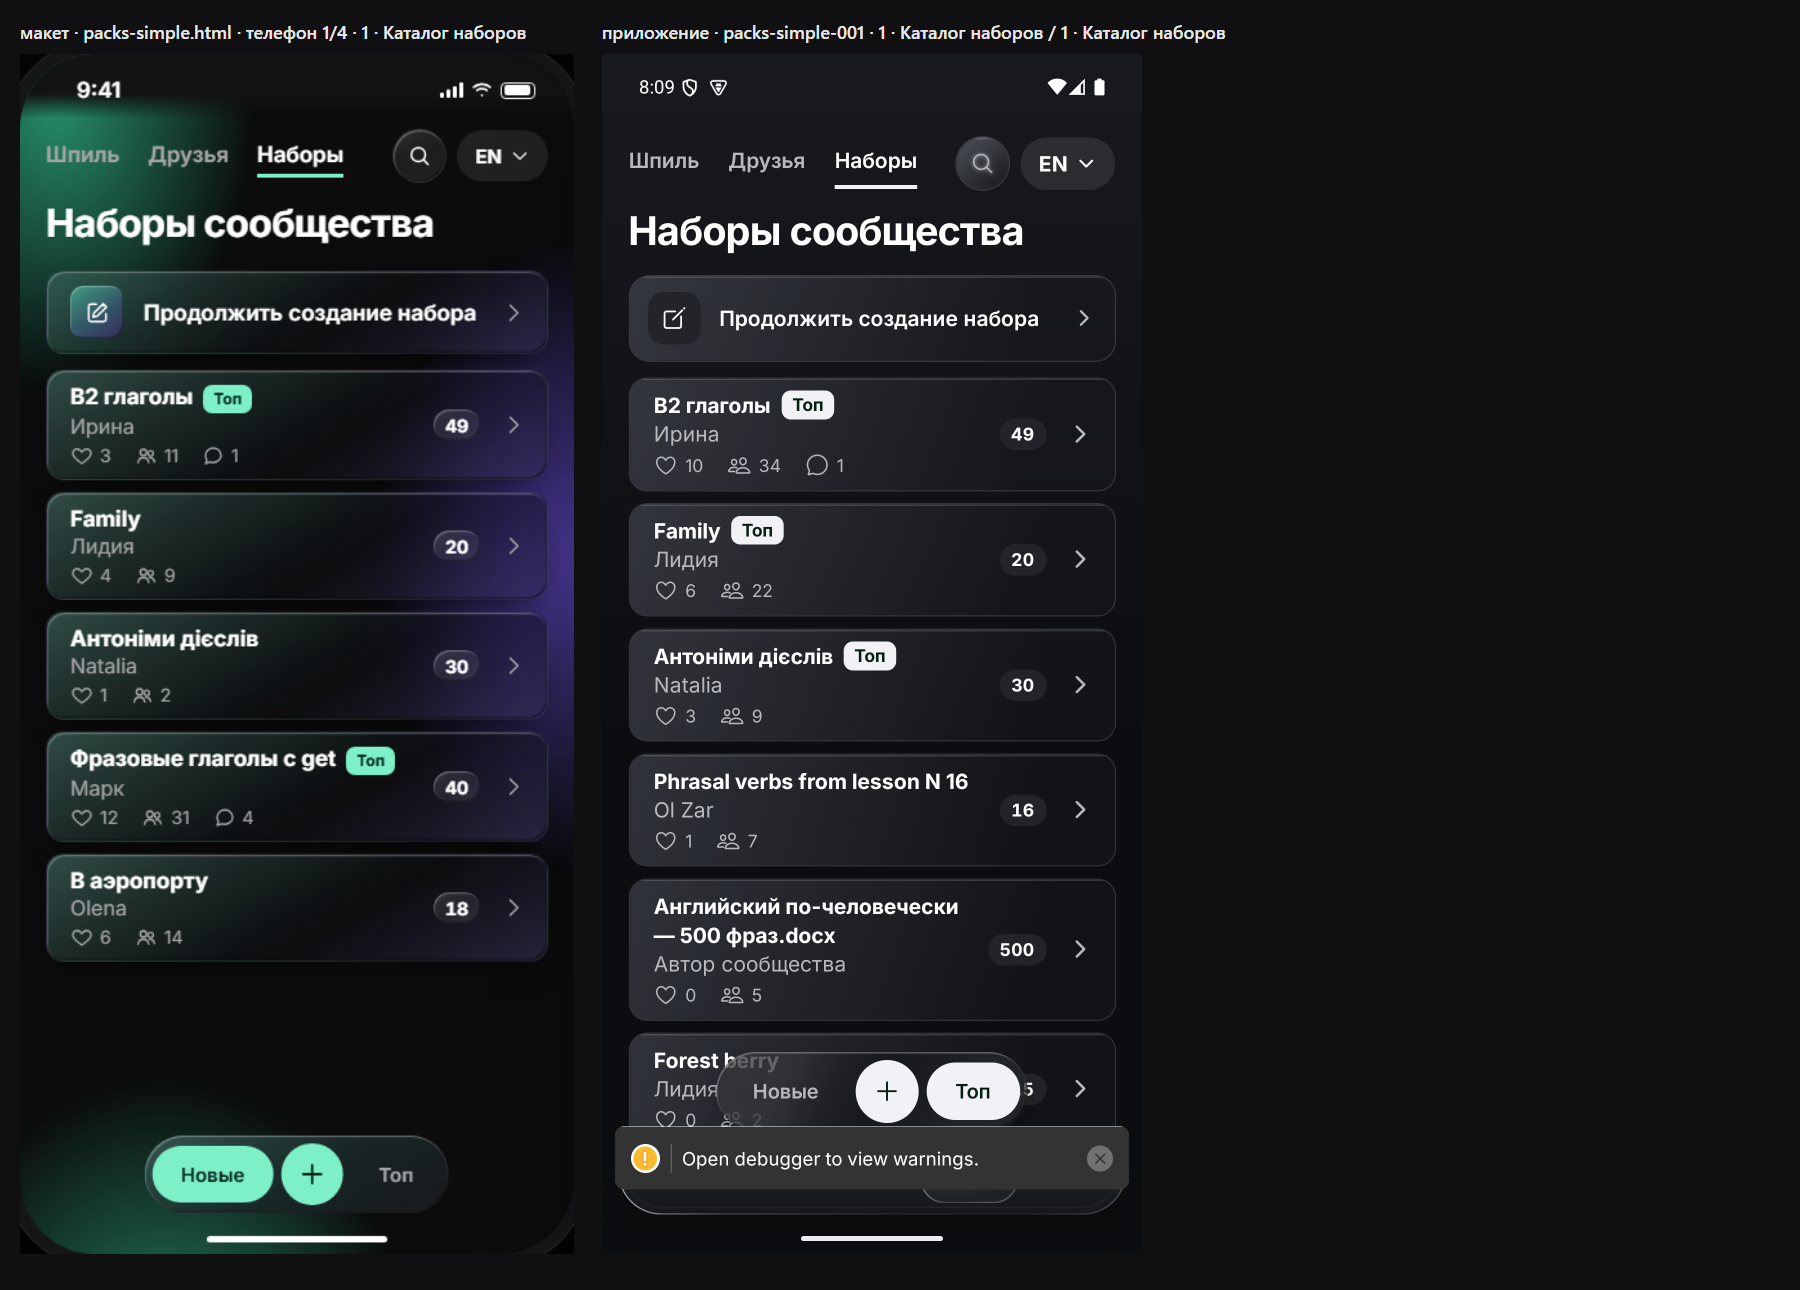
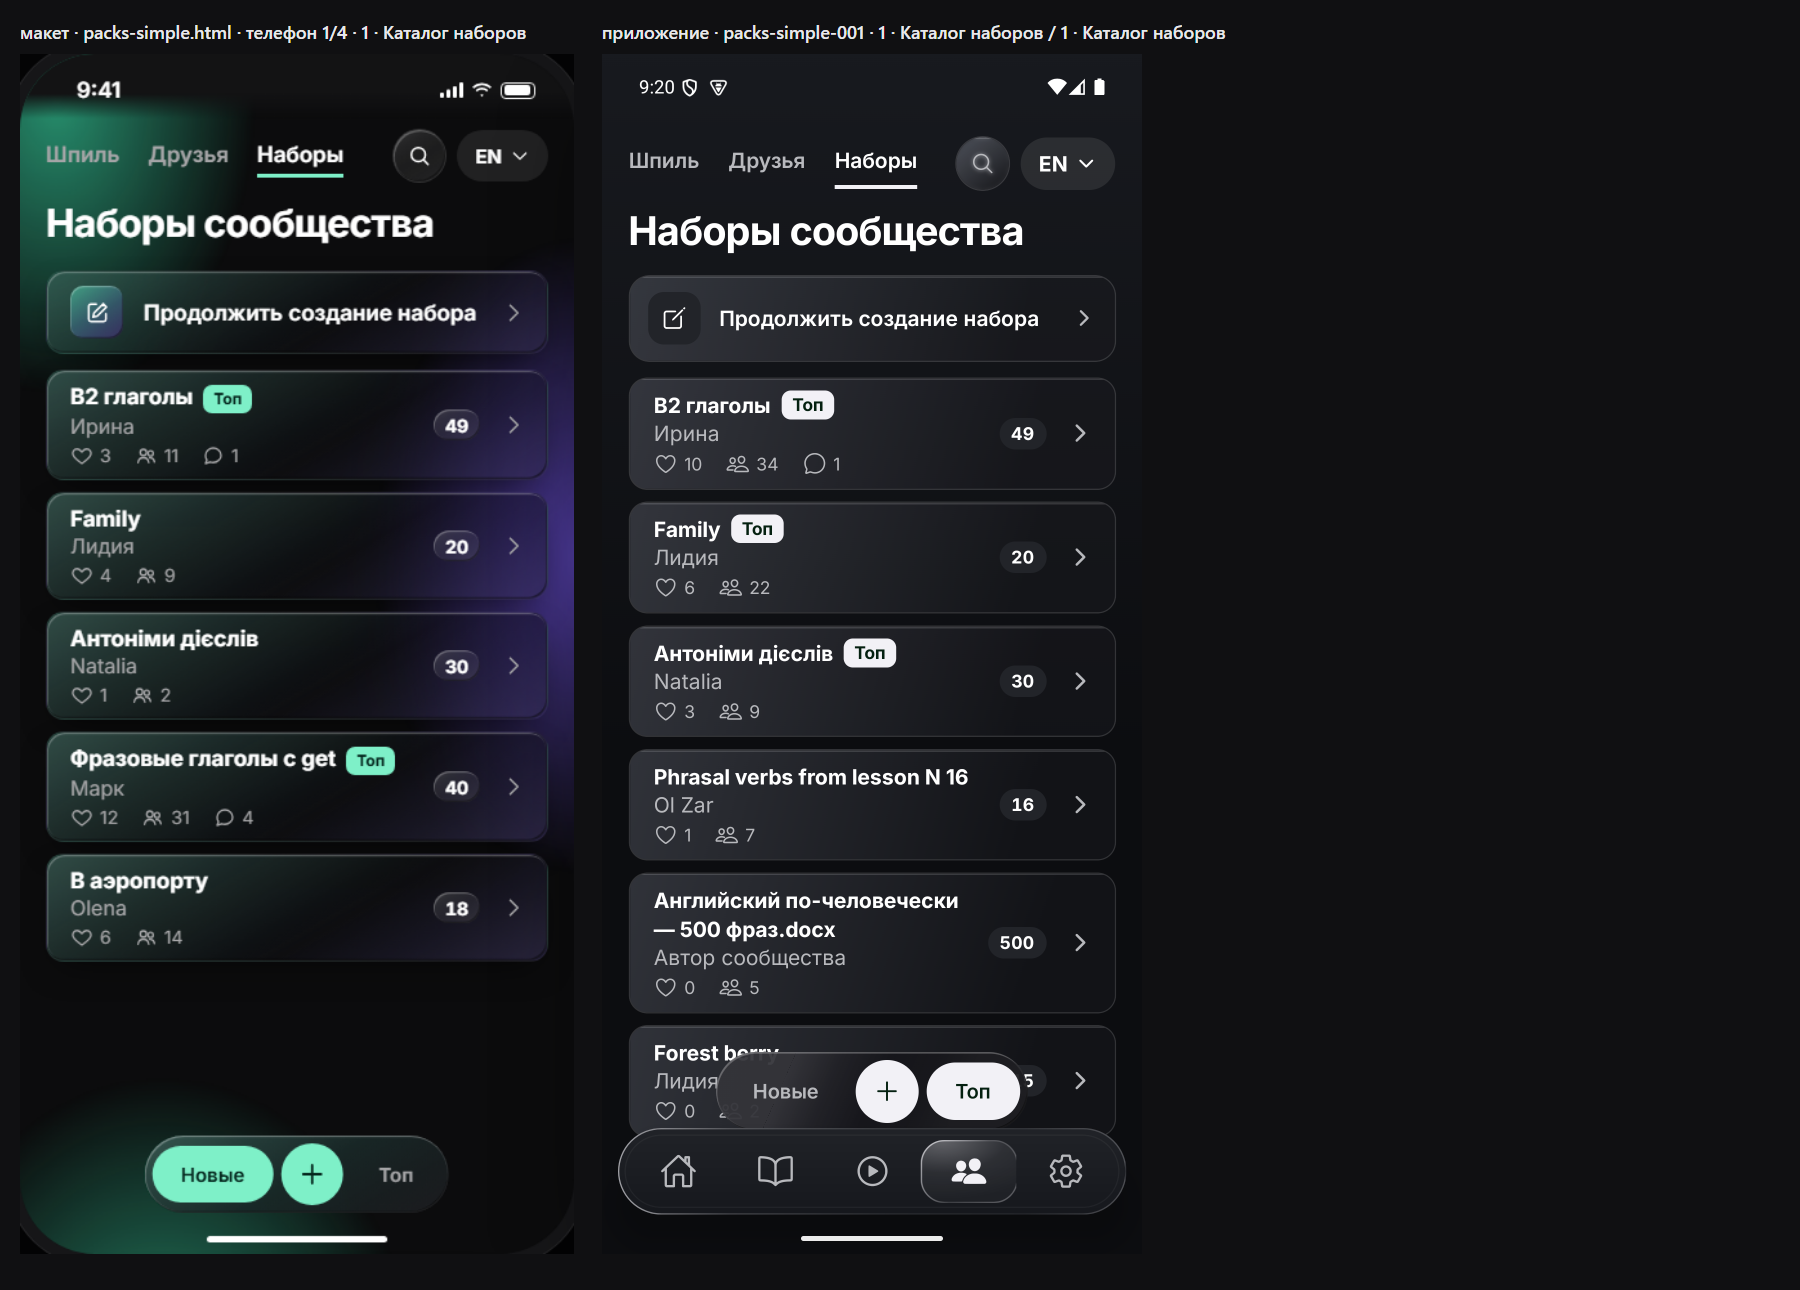
parity(packs-simple-001): .bar3 — блик и кромка kit.css без тени; строка автора 19, зазор значок–число 5; diffs learn-004/007/008/011–014 из SVERKA_LOG

diff --git a/app/flashcards_packs.tsx b/app/flashcards_packs.tsx
@@ -37,6 +37,7 @@ import { SafeAreaView } from 'react-native-safe-area-context';
 import { useStableSafeAreaInsets } from './stable_safe_area_metrics';
 import ScreenGradient from '../components/ScreenGradient';
 import { LinearGradient } from '../components/SafeLinearGradient';
+import { KitGlassLayer } from '../components/v2/KitLiquidGlass';
 import { useLang } from '../components/LangContext';
 import { triLang } from '../constants/i18n';
 import { liquidGlassTokens } from '../constants/liquidGlassThemePalette';
@@ -626,8 +627,8 @@ export default function FlashcardsPacksScreen({ presentation = 'push' }: Flashca
         <View style={[styles.bottomTabsDock, { paddingBottom: embedded ? tabContentBottomPad - 8 : Math.max(insets.bottom, 12) }]}>
           {/* зачем (владелец 04.10, packs-simple.html `.bar3`, «как на макете»): компактная плавающая пилюля по центру —
               «Новые» и «Топ» текстом без значков (44, радиус 22, 15/600), активная залита цветом темы;
-              «+» по центру — круг 48 цвета темы. В `.bar3` НЕТ стекла kit.css и тени: только градиент .94
-              и кольцо inset 1px белое .08 (styles.bottomTabs). */}
+              «+» по центру — круг 48 цвета темы. kit.css даёт `.bar3` блик и кромку (::after), а тень --lg-drop
+              страница перебивает своим box-shadow: кольцо inset 1px белое .08 (styles.bottomTabs). */}
           <View style={styles.bottomTabs}>
             {/* зачем (`.bar3` background): почти непрозрачная пилюля (.94) — список под ней не просвечивает. */}
             <LinearGradient
@@ -637,6 +638,7 @@ export default function FlashcardsPacksScreen({ presentation = 'push' }: Flashca
               end={{ x: 0.75, y: 0.933 }}
               style={StyleSheet.absoluteFill}
             />
+            <KitGlassLayer radius={30} />
             <TouchableOpacity
               testID="flashcards-packs-sort-new"
               accessibilityRole="button"

diff --git a/app/community_packs/CommunityPackSocialBar.tsx b/app/community_packs/CommunityPackSocialBar.tsx
@@ -510,18 +510,18 @@ export default function CommunityPackSocialBar({
   }
 
   if (isList) {
-    // зачем (packs-simple.html `.meta`): иконки 18, промежуток 18 между парами и 6 внутри; кегль 13 по D145 (макет 14).
+    // зачем (packs-simple.html `.meta`): иконки 18, промежуток 18 между парами и 5 внутри (packs-simple.html перебивает kit 6); кегль 13 по D145 (макет 14).
     return (
       <View style={{ flexDirection: 'row', alignItems: 'center', gap: 18, marginTop: 4 }}>
-        <View style={{ flexDirection: 'row', alignItems: 'center', gap: 6 }}>
+        <View style={{ flexDirection: 'row', alignItems: 'center', gap: 5 }}>
           <Ionicons name={snapshot.liked ? 'heart' : 'heart-outline'} size={18} color={snapshot.liked ? g.text : g.secondary} />
           <Text style={{ color: g.secondary, fontSize: 13, lineHeight: 18, fontWeight: '500' }}>{snapshot.likesCount}</Text>{/* guard-ok: счётчик, не подпись */}
         </View>
-        <View style={{ flexDirection: 'row', alignItems: 'center', gap: 6 }}>
+        <View style={{ flexDirection: 'row', alignItems: 'center', gap: 5 }}>
           <Ionicons name="people-outline" size={18} color={g.secondary} />
           <Text style={{ color: g.secondary, fontSize: 13, lineHeight: 18, fontWeight: '500' }}>{snapshot.addedCount}</Text>{/* guard-ok: счётчик, не подпись */}
         </View>
-        {renderCommentsCount(18, 13, 6)}
+        {renderCommentsCount(18, 13, 5)}
       </View>
     );
   }

diff --git a/app/flashcards/FlashcardsCategoryHub.tsx b/app/flashcards/FlashcardsCategoryHub.tsx
@@ -272,7 +272,7 @@ const rowStyles = StyleSheet.create({
   title: { flexShrink: 1, fontSize: 16, lineHeight: 22, fontWeight: '700' },
   topTag: { height: 22, paddingHorizontal: 8, borderRadius: 7, marginLeft: 8, alignItems: 'center', justifyContent: 'center' },
   topTagText: { fontSize: 13, lineHeight: 16, fontWeight: '700' }, // зачем: макет 12, D145 — 13
-  author: { fontSize: 16, lineHeight: 20, marginTop: 1 },
+  author: { fontSize: 16, lineHeight: 19, marginTop: 1 }, // зачем: `.row .st` — строка 19 (сверка 04.10, карточка выше макета)
   pill: { minWidth: 33, height: 24, paddingHorizontal: 9, borderRadius: 12, alignItems: 'center', justifyContent: 'center' },
   pillText: { fontSize: 13, lineHeight: 16, fontWeight: '700', fontVariant: ['tabular-nums'] }, // зачем: макет 14, D145 — 13
 });

diff --git a/docs/phraseman-2.0/INBOX_COORDINATOR_FROM_SVERKA.md b/docs/phraseman-2.0/INBOX_COORDINATOR_FROM_SVERKA.md
@@ -114,3 +114,13 @@ learn.html (cc99dc0ca, одобрен) — замок ЗАЛИТЫЙ (lockF). В
 
 ## 🔴🔴 20:37 — СРОЧНО, ПРИКАЗ ВЛАДЕЛЬЦА: СБОРКА НЕ РАБОТАЕТ — РЕШИТЬ В ПЕРВУЮ ОЧЕРЕДЬ, ОТЛОЖИВ ВСЁ
 Бандлер отдаёт 500: Unable to resolve ./generated_release/en/l04/s04/intro.json (factory_native_manifest_v1.generated.ts). Файлы на диске есть с 20:09. Reload не помогает — нужен ПЕРЕЗАПУСК БАНДЛЕРА скриптом владельца. Приложение не запускается ни у кого.
+
+## 20:58 — сообщения через SendMessage истекли без одобрения, дублирую сюда
+- packs-simple-001: после d5b6b1672 панель «Новые · + · Топ» просвечивала (список читался сквозь левую часть). В `.bar3` макета НЕТ стекла kit.css и тени — только градиент .94 + кольцо inset 1px .08. Исправила в app/flashcards_packs.tsx (коммит следом), склейка — после перезагрузки.
+- Эмулятор в 20:5x пропадал снова (`device not found`) и параллельно его водит другая сессия: моя склейка packs-simple-001 в 20:53 поймала Главную. Прошу: кто водит эмулятор сейчас — сверка или нет? Мне нужно ~5 минут непрерывно.
+- Отличия packs-simple-001, не мои по коду: (1) под «Наборами» видна общая панель вкладок — в макете её нет, из-за неё «Новые · + · Топ» висит выше и наезжает на карточку; (2) в панели вкладок подсвечен «Дом», хотя открыто «Сообщество»; (3) по умолчанию выбран «Топ», в макете «Новые».
+
+## 21:20 — очередь принята; поправка по .bar3
+- Очередь cards-section 022–038, 056–057 приняла; сниму после packs-simple-001.
+- ПОПРАВКА: kit.css:182 даёт .bar3 блик+кромку (::after); тень --lg-drop перебита правилом страницы (inset 1px .08). Блик и кромку вернула, тени нет. Плюс по kit: автор lineHeight 19, зазор значок–число 5 (packs-simple переопределяет 6).
+- Нужно решение: (1) общая панель вкладок под «Наборами» (в макете нет); (2) по умолчанию «Топ», в макете «Новые».
